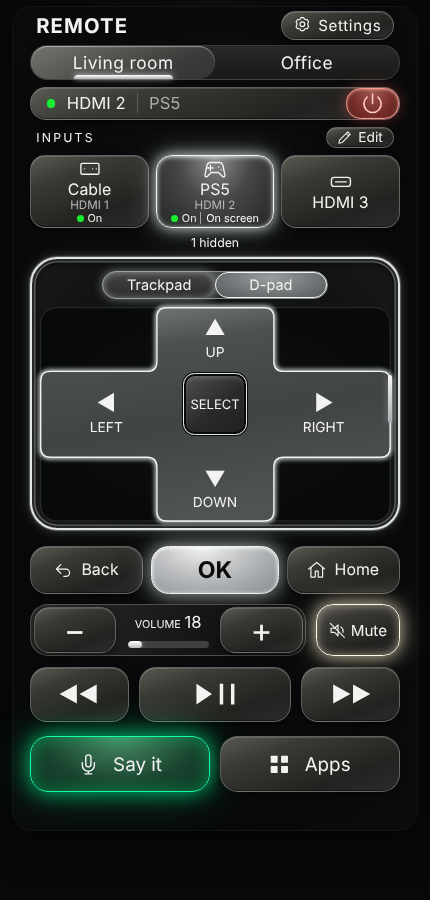
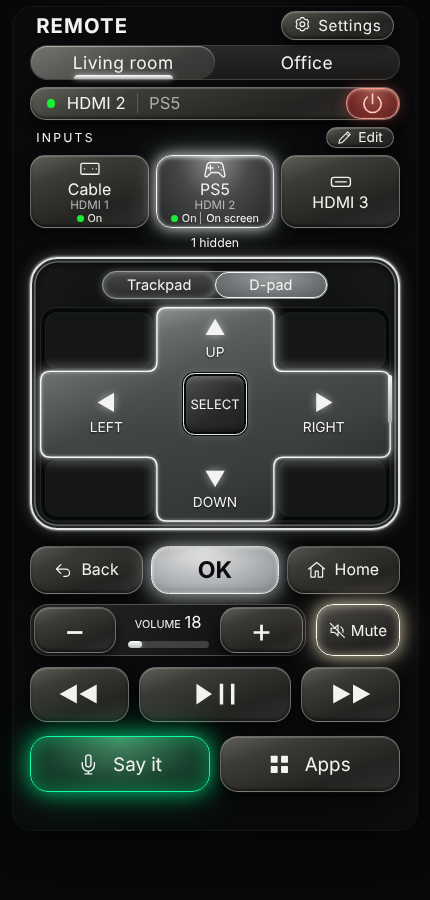
NEXUS mock: D-pad bloom, bevel and corner panels; lifted chrome keys
Claude-Session: https://claude.ai/code/session_01MP8wXPz7fte7HKZgZuAaXG

Changed region(s): [[0.0907, 0.3422, 0.907, 0.6222], [0.6047, 0.3422, 0.8767, 0.4667]]

diff --git a/grigson-tv/nexus-remote/NEXUS-Remote.html b/grigson-tv/nexus-remote/NEXUS-Remote.html
@@ -35,7 +35,7 @@ button:active, button.is-pressed { filter: brightness(1.2); transform: scale(.98
 .comparison .remote { width: 100%; }
 .remote-inner { --u: calc(100cqw / 558); padding: calc(6 * var(--u)) calc(24 * var(--u)) calc(52 * var(--u)); font-size: calc(24 * var(--u)); }
 .icon { width: 1.1em; height: 1.1em; vertical-align: middle; flex-shrink: 0; stroke: currentColor; stroke-width: 1.65; fill: none; stroke-linecap: round; stroke-linejoin: round; }
-.chrome { background: linear-gradient(160deg,#5a5953 0%,#3a3935 28%,#232220 72%,#2d2c2a); border: 1px solid #8e8e8a8c; box-shadow: inset 0 1px 0 #ffffff26,inset 0 -1px 0 #0006,0 3px 7px #0006; }
+.chrome { background: linear-gradient(160deg,#5f5e58 0%,#3c3b37 26%,#242321 70%,#2f2e2c); border: 1px solid #94948f99; box-shadow: inset 0 1px 1px #ffffff38,inset 0 -2px 3px #0007,0 5px 12px #000a,0 1px 0 #ffffff10; }
 .header { height: calc(39 * var(--u)); display: flex; align-items: flex-start; justify-content: space-between; padding: 0 calc(8 * var(--u)); }
 .brand { font-size: calc(28 * var(--u)); letter-spacing: .055em; font-weight: 700; margin: calc(2 * var(--u)) 0 0; }
 .settings { display: flex; align-items: center; gap: .5em; padding: 0 calc(16 * var(--u)); height: calc(39 * var(--u)); border-radius: calc(22 * var(--u)); font-size: calc(21 * var(--u)); letter-spacing: .04em; }
@@ -62,7 +62,7 @@ button:active, button.is-pressed { filter: brightness(1.2); transform: scale(.98
 .on-screen { border-left:1px solid #a4a4a4; padding-left:calc(7 * var(--u)); color:#fff; }
 .input-card[aria-pressed=true] { background:radial-gradient(ellipse at 50% 0%,#8d8f90,#464848 45%,#2c2e2f 85%); border-color:#f1f4f5; box-shadow: inset 0 1px 4px #fffc,inset 0 0 10px #ffffff22,0 0 14px #f1f7f7cc,0 0 32px #d6dada55; }
 .hidden-count { text-align:center; height:calc(40 * var(--u)); display:grid; place-items:center; font-size:calc(17 * var(--u)); margin:0; }
-.navigation { position:relative; height:calc(378 * var(--u)); border-radius:calc(38 * var(--u)); border:calc(3 * var(--u)) solid #e3e6e6; padding:calc(17 * var(--u)) calc(9 * var(--u)) calc(8 * var(--u)); background:radial-gradient(ellipse at 50% 45%,#1a1b1b,#111212 60%,#1c1e1e); box-shadow:inset 0 0 0 calc(3 * var(--u)) #262828,inset 0 0 0 calc(5 * var(--u)) #a6a9a880,inset 0 2px 6px calc(5 * var(--u)) #0008,0 0 12px #ffffff38,0 0 2px #fff; overflow:hidden; }
+.navigation { position:relative; height:calc(378 * var(--u)); border-radius:calc(38 * var(--u)); border:calc(3 * var(--u)) solid #e3e6e6; padding:calc(17 * var(--u)) calc(9 * var(--u)) calc(8 * var(--u)); background:radial-gradient(ellipse at 50% 45%,#1a1b1b,#111212 60%,#1c1e1e); box-shadow:inset 0 0 0 calc(3 * var(--u)) #262828,inset 0 0 0 calc(5 * var(--u)) #b4b7b690,inset 0 2px 8px calc(5 * var(--u)) #000a,0 0 16px #ffffff45,0 0 3px #fff,0 8px 22px #000a; overflow:hidden; }
 .mode-selector { position:relative; z-index:3; display:flex; width:64%; height:calc(38 * var(--u)); margin:auto; border:1px solid #898b8b; background:linear-gradient(#454646,#292b2b); border-radius:calc(22 * var(--u)); }
 .mode { width:50%; border:0; background:transparent; border-radius:inherit; font-size:calc(20 * var(--u)); }
 .mode[aria-selected=true] { background:radial-gradient(ellipse at 50% 20%,#9a9d9f,#555859); border:1px solid #f4f7f8; box-shadow:inset 0 0 8px #fff7,0 0 12px #e4ecec99; }
@@ -78,17 +78,18 @@ button:active, button.is-pressed { filter: brightness(1.2); transform: scale(.98
 .dpad { position:absolute; inset:calc(66 * var(--u)) calc(10 * var(--u)) calc(10 * var(--u)); }
 .dpad-art { width:100%; height:100%; position:absolute; overflow:visible; pointer-events:none; }
 .direction { position:absolute; border:0; background:transparent; padding:0; display:flex; flex-direction:column; justify-content:center; align-items:center; gap:calc(8 * var(--u)); border-radius:calc(12 * var(--u)); font-size:calc(19 * var(--u)); touch-action:none; }
-.direction .triangle { font-size:calc(29 * var(--u)); line-height:1; }
+.direction .triangle { font-size:calc(29 * var(--u)); line-height:1; text-shadow:0 0 8px #ffffff80; }
+.direction { text-shadow:0 1px 2px #000c; }
 .direction.up { top:0; left:33.333%; width:33.334%; height:30%; }
 .direction.down { bottom:0; left:33.333%; width:33.334%; height:30%; }
 .direction.left { top:30%; left:0; width:38%; height:40%; }
 .direction.right { top:30%; right:0; width:38%; height:40%; }
 .direction:active,.direction.is-pressed { background:#ffffff17; transform:none; box-shadow:inset 0 0 24px #ffffff1a; }
-.center-select { position:absolute; left:41%; top:31%; width:18%; height:29%; border-radius:calc(16 * var(--u)); font-size:calc(18 * var(--u)); border:calc(2 * var(--u)) solid #e8e9e6; background:linear-gradient(140deg,#505252,#292b2b 55%,#1d1f20); box-shadow:inset 0 0 0 2px #090a0b,inset 0 4px 5px #ffffff30,0 0 0 1px #090a0b; touch-action:none; }
+.center-select { position:absolute; left:41%; top:31%; width:18%; height:29%; border-radius:calc(16 * var(--u)); font-size:calc(18 * var(--u)); border:calc(2 * var(--u)) solid #e8e9e6; background:linear-gradient(140deg,#505252,#292b2b 55%,#1d1f20); box-shadow:inset 0 0 0 2px #090a0b,inset 0 4px 6px #ffffff40,inset 0 -3px 6px #0008,0 0 0 1px #090a0b,0 0 10px #ffffff30; touch-action:none; }
 [hidden] { display:none !important; }
 .primary { display:grid; grid-template-columns:1fr 1.13fr 1fr; gap:calc(12 * var(--u)); margin-top:calc(21 * var(--u)); height:calc(67 * var(--u)); }
 .primary button { border-radius:calc(24 * var(--u)); display:flex; align-items:center; justify-content:center; gap:calc(13 * var(--u)); font-size:calc(22 * var(--u)); }
-.primary .okay { font-size:calc(32 * var(--u)); font-weight:700; color:#090b0d; border:1px solid #eef0f0; background:radial-gradient(ellipse at 40% 0%,#f1f2f2,#bfc1c3 42%,#909497 90%); box-shadow:inset 0 1px 4px #fff,0 0 18px #e6ecec99,0 0 34px #c8d0d040; }
+.primary .okay { font-size:calc(32 * var(--u)); font-weight:700; color:#090b0d; border:1px solid #eef0f0; background:radial-gradient(ellipse at 40% 0%,#f1f2f2,#bfc1c3 42%,#909497 90%); box-shadow:inset 0 1px 4px #fff,inset 0 -3px 6px #00000030,0 0 20px #eef3f3b3,0 0 40px #c8d0d055,0 5px 12px #0008; }
 .volume-row { margin-top:calc(14 * var(--u)); display:grid; grid-template-columns:3.3fr 1fr; gap:calc(14 * var(--u)); height:calc(72 * var(--u)); }
 .volume-strip { display:grid; grid-template-columns:1fr 1.2fr 1fr; padding:calc(3 * var(--u)); border-radius:calc(25 * var(--u)); border:1px solid #79797591; background:linear-gradient(120deg,#292a28,#121414 70%); gap:calc(4 * var(--u)); }
 .volume-key { border-radius:calc(22 * var(--u)); font-size:calc(46 * var(--u)); line-height:1; touch-action:none; }
@@ -227,13 +228,20 @@ dialog button.save { padding:10px 18px; border:1px solid #bec2c5; border-radius:
     }).join('');
   }
   function dpadArt(id) {
+    const cross='M184 1H326Q340 1 340 15V76Q340 90 354 90H495Q509 90 509 104V196Q509 210 495 210H354Q340 210 340 224V285Q340 299 326 299H184Q170 299 170 285V224Q170 210 156 210H15Q1 210 1 196V104Q1 90 15 90H156Q170 90 170 76V15Q170 1 184 1Z';
     return `<svg class="dpad-art" viewBox="0 0 510 300" preserveAspectRatio="none" aria-hidden="true">
-      <defs><linearGradient id="plate-${id}" x1="0" y1="0" x2=".25" y2="1"><stop stop-color="#808384"/><stop offset=".25" stop-color="#4d5051"/><stop offset=".6" stop-color="#414445"/><stop offset="1" stop-color="#505354"/></linearGradient>
-      <radialGradient id="void-${id}"><stop stop-color="#111314"/><stop offset="1" stop-color="#080a0a"/></radialGradient>
-      <filter id="glow-${id}" x="-10%" y="-10%" width="120%" height="120%"><feGaussianBlur stdDeviation="3"/></filter></defs>
-      <rect x="1" y="1" width="508" height="298" rx="22" fill="url(#void-${id})" stroke="#393c3d"/>
-      <path d="M184 1H326Q340 1 340 15V76Q340 90 354 90H495Q509 90 509 104V196Q509 210 495 210H354Q340 210 340 224V285Q340 299 326 299H184Q170 299 170 285V224Q170 210 156 210H15Q1 210 1 196V104Q1 90 15 90H156Q170 90 170 76V15Q170 1 184 1Z" fill="none" stroke="#eef2f2" stroke-width="6" filter="url(#glow-${id})" opacity=".85"/>
-      <path d="M184 1H326Q340 1 340 15V76Q340 90 354 90H495Q509 90 509 104V196Q509 210 495 210H354Q340 210 340 224V285Q340 299 326 299H184Q170 299 170 285V224Q170 210 156 210H15Q1 210 1 196V104Q1 90 15 90H156Q170 90 170 76V15Q170 1 184 1Z" fill="url(#plate-${id})" stroke="#f0f3f3" stroke-width="2"/>
+      <defs><linearGradient id="plate-${id}" x1="0" y1="0" x2=".3" y2="1"><stop stop-color="#9a9d9e"/><stop offset=".2" stop-color="#5e6263"/><stop offset=".6" stop-color="#424546"/><stop offset="1" stop-color="#353839"/></linearGradient>
+      <linearGradient id="bevel-${id}" x1="0" y1="0" x2="1" y2="1"><stop stop-color="#fff" stop-opacity=".22"/><stop offset=".35" stop-color="#fff" stop-opacity="0"/><stop offset=".7" stop-color="#000" stop-opacity="0"/><stop offset="1" stop-color="#000" stop-opacity=".35"/></linearGradient>
+      <radialGradient id="void-${id}"><stop stop-color="#121415"/><stop offset="1" stop-color="#070909"/></radialGradient>
+      <filter id="bloom-${id}" x="-15%" y="-15%" width="130%" height="130%"><feGaussianBlur stdDeviation="8"/></filter>
+      <filter id="glow-${id}" x="-10%" y="-10%" width="120%" height="120%"><feGaussianBlur stdDeviation="2.5"/></filter>
+      <clipPath id="clip-${id}"><path d="${cross}"/></clipPath></defs>
+      <rect x="1" y="1" width="508" height="298" rx="22" fill="url(#void-${id})" stroke="#2c2f30"/><g fill="#151717" stroke="#242727"><rect x="8" y="8" width="156" height="78" rx="16"/><rect x="346" y="8" width="156" height="78" rx="16"/><rect x="8" y="214" width="156" height="78" rx="16"/><rect x="346" y="214" width="156" height="78" rx="16"/></g>
+      <path d="${cross}" fill="none" stroke="#ffffff" stroke-width="13" filter="url(#bloom-${id})" opacity=".32"/>
+      <path d="${cross}" fill="none" stroke="#f4f7f7" stroke-width="3" filter="url(#glow-${id})" opacity=".7"/>
+      <path d="${cross}" fill="url(#plate-${id})" stroke="#f3f6f6" stroke-width="2"/>
+      <path d="${cross}" fill="url(#bevel-${id})"/>
+      <path d="${cross}" fill="none" stroke="#ffffff" stroke-width="5" opacity=".28" clip-path="url(#clip-${id})" filter="url(#glow-${id})"/>
     </svg>`;
   }
   function markup(id) {

diff --git a/grigson-tv/nexus-remote/styles.css b/grigson-tv/nexus-remote/styles.css
@@ -27,7 +27,7 @@ button:active, button.is-pressed { filter: brightness(1.2); transform: scale(.98
 .comparison .remote { width: 100%; }
 .remote-inner { --u: calc(100cqw / 558); padding: calc(6 * var(--u)) calc(24 * var(--u)) calc(52 * var(--u)); font-size: calc(24 * var(--u)); }
 .icon { width: 1.1em; height: 1.1em; vertical-align: middle; flex-shrink: 0; stroke: currentColor; stroke-width: 1.65; fill: none; stroke-linecap: round; stroke-linejoin: round; }
-.chrome { background: linear-gradient(160deg,#5a5953 0%,#3a3935 28%,#232220 72%,#2d2c2a); border: 1px solid #8e8e8a8c; box-shadow: inset 0 1px 0 #ffffff26,inset 0 -1px 0 #0006,0 3px 7px #0006; }
+.chrome { background: linear-gradient(160deg,#5f5e58 0%,#3c3b37 26%,#242321 70%,#2f2e2c); border: 1px solid #94948f99; box-shadow: inset 0 1px 1px #ffffff38,inset 0 -2px 3px #0007,0 5px 12px #000a,0 1px 0 #ffffff10; }
 .header { height: calc(39 * var(--u)); display: flex; align-items: flex-start; justify-content: space-between; padding: 0 calc(8 * var(--u)); }
 .brand { font-size: calc(28 * var(--u)); letter-spacing: .055em; font-weight: 700; margin: calc(2 * var(--u)) 0 0; }
 .settings { display: flex; align-items: center; gap: .5em; padding: 0 calc(16 * var(--u)); height: calc(39 * var(--u)); border-radius: calc(22 * var(--u)); font-size: calc(21 * var(--u)); letter-spacing: .04em; }
@@ -54,7 +54,7 @@ button:active, button.is-pressed { filter: brightness(1.2); transform: scale(.98
 .on-screen { border-left:1px solid #a4a4a4; padding-left:calc(7 * var(--u)); color:#fff; }
 .input-card[aria-pressed=true] { background:radial-gradient(ellipse at 50% 0%,#8d8f90,#464848 45%,#2c2e2f 85%); border-color:#f1f4f5; box-shadow: inset 0 1px 4px #fffc,inset 0 0 10px #ffffff22,0 0 14px #f1f7f7cc,0 0 32px #d6dada55; }
 .hidden-count { text-align:center; height:calc(40 * var(--u)); display:grid; place-items:center; font-size:calc(17 * var(--u)); margin:0; }
-.navigation { position:relative; height:calc(378 * var(--u)); border-radius:calc(38 * var(--u)); border:calc(3 * var(--u)) solid #e3e6e6; padding:calc(17 * var(--u)) calc(9 * var(--u)) calc(8 * var(--u)); background:radial-gradient(ellipse at 50% 45%,#1a1b1b,#111212 60%,#1c1e1e); box-shadow:inset 0 0 0 calc(3 * var(--u)) #262828,inset 0 0 0 calc(5 * var(--u)) #a6a9a880,inset 0 2px 6px calc(5 * var(--u)) #0008,0 0 12px #ffffff38,0 0 2px #fff; overflow:hidden; }
+.navigation { position:relative; height:calc(378 * var(--u)); border-radius:calc(38 * var(--u)); border:calc(3 * var(--u)) solid #e3e6e6; padding:calc(17 * var(--u)) calc(9 * var(--u)) calc(8 * var(--u)); background:radial-gradient(ellipse at 50% 45%,#1a1b1b,#111212 60%,#1c1e1e); box-shadow:inset 0 0 0 calc(3 * var(--u)) #262828,inset 0 0 0 calc(5 * var(--u)) #b4b7b690,inset 0 2px 8px calc(5 * var(--u)) #000a,0 0 16px #ffffff45,0 0 3px #fff,0 8px 22px #000a; overflow:hidden; }
 .mode-selector { position:relative; z-index:3; display:flex; width:64%; height:calc(38 * var(--u)); margin:auto; border:1px solid #898b8b; background:linear-gradient(#454646,#292b2b); border-radius:calc(22 * var(--u)); }
 .mode { width:50%; border:0; background:transparent; border-radius:inherit; font-size:calc(20 * var(--u)); }
 .mode[aria-selected=true] { background:radial-gradient(ellipse at 50% 20%,#9a9d9f,#555859); border:1px solid #f4f7f8; box-shadow:inset 0 0 8px #fff7,0 0 12px #e4ecec99; }
@@ -70,17 +70,18 @@ button:active, button.is-pressed { filter: brightness(1.2); transform: scale(.98
 .dpad { position:absolute; inset:calc(66 * var(--u)) calc(10 * var(--u)) calc(10 * var(--u)); }
 .dpad-art { width:100%; height:100%; position:absolute; overflow:visible; pointer-events:none; }
 .direction { position:absolute; border:0; background:transparent; padding:0; display:flex; flex-direction:column; justify-content:center; align-items:center; gap:calc(8 * var(--u)); border-radius:calc(12 * var(--u)); font-size:calc(19 * var(--u)); touch-action:none; }
-.direction .triangle { font-size:calc(29 * var(--u)); line-height:1; }
+.direction .triangle { font-size:calc(29 * var(--u)); line-height:1; text-shadow:0 0 8px #ffffff80; }
+.direction { text-shadow:0 1px 2px #000c; }
 .direction.up { top:0; left:33.333%; width:33.334%; height:30%; }
 .direction.down { bottom:0; left:33.333%; width:33.334%; height:30%; }
 .direction.left { top:30%; left:0; width:38%; height:40%; }
 .direction.right { top:30%; right:0; width:38%; height:40%; }
 .direction:active,.direction.is-pressed { background:#ffffff17; transform:none; box-shadow:inset 0 0 24px #ffffff1a; }
-.center-select { position:absolute; left:41%; top:31%; width:18%; height:29%; border-radius:calc(16 * var(--u)); font-size:calc(18 * var(--u)); border:calc(2 * var(--u)) solid #e8e9e6; background:linear-gradient(140deg,#505252,#292b2b 55%,#1d1f20); box-shadow:inset 0 0 0 2px #090a0b,inset 0 4px 5px #ffffff30,0 0 0 1px #090a0b; touch-action:none; }
+.center-select { position:absolute; left:41%; top:31%; width:18%; height:29%; border-radius:calc(16 * var(--u)); font-size:calc(18 * var(--u)); border:calc(2 * var(--u)) solid #e8e9e6; background:linear-gradient(140deg,#505252,#292b2b 55%,#1d1f20); box-shadow:inset 0 0 0 2px #090a0b,inset 0 4px 6px #ffffff40,inset 0 -3px 6px #0008,0 0 0 1px #090a0b,0 0 10px #ffffff30; touch-action:none; }
 [hidden] { display:none !important; }
 .primary { display:grid; grid-template-columns:1fr 1.13fr 1fr; gap:calc(12 * var(--u)); margin-top:calc(21 * var(--u)); height:calc(67 * var(--u)); }
 .primary button { border-radius:calc(24 * var(--u)); display:flex; align-items:center; justify-content:center; gap:calc(13 * var(--u)); font-size:calc(22 * var(--u)); }
-.primary .okay { font-size:calc(32 * var(--u)); font-weight:700; color:#090b0d; border:1px solid #eef0f0; background:radial-gradient(ellipse at 40% 0%,#f1f2f2,#bfc1c3 42%,#909497 90%); box-shadow:inset 0 1px 4px #fff,0 0 18px #e6ecec99,0 0 34px #c8d0d040; }
+.primary .okay { font-size:calc(32 * var(--u)); font-weight:700; color:#090b0d; border:1px solid #eef0f0; background:radial-gradient(ellipse at 40% 0%,#f1f2f2,#bfc1c3 42%,#909497 90%); box-shadow:inset 0 1px 4px #fff,inset 0 -3px 6px #00000030,0 0 20px #eef3f3b3,0 0 40px #c8d0d055,0 5px 12px #0008; }
 .volume-row { margin-top:calc(14 * var(--u)); display:grid; grid-template-columns:3.3fr 1fr; gap:calc(14 * var(--u)); height:calc(72 * var(--u)); }
 .volume-strip { display:grid; grid-template-columns:1fr 1.2fr 1fr; padding:calc(3 * var(--u)); border-radius:calc(25 * var(--u)); border:1px solid #79797591; background:linear-gradient(120deg,#292a28,#121414 70%); gap:calc(4 * var(--u)); }
 .volume-key { border-radius:calc(22 * var(--u)); font-size:calc(46 * var(--u)); line-height:1; touch-action:none; }

diff --git a/grigson-tv/nexus-remote/app.js b/grigson-tv/nexus-remote/app.js
@@ -69,13 +69,20 @@
     }).join('');
   }
   function dpadArt(id) {
+    const cross='M184 1H326Q340 1 340 15V76Q340 90 354 90H495Q509 90 509 104V196Q509 210 495 210H354Q340 210 340 224V285Q340 299 326 299H184Q170 299 170 285V224Q170 210 156 210H15Q1 210 1 196V104Q1 90 15 90H156Q170 90 170 76V15Q170 1 184 1Z';
     return `<svg class="dpad-art" viewBox="0 0 510 300" preserveAspectRatio="none" aria-hidden="true">
-      <defs><linearGradient id="plate-${id}" x1="0" y1="0" x2=".25" y2="1"><stop stop-color="#808384"/><stop offset=".25" stop-color="#4d5051"/><stop offset=".6" stop-color="#414445"/><stop offset="1" stop-color="#505354"/></linearGradient>
-      <radialGradient id="void-${id}"><stop stop-color="#111314"/><stop offset="1" stop-color="#080a0a"/></radialGradient>
-      <filter id="glow-${id}" x="-10%" y="-10%" width="120%" height="120%"><feGaussianBlur stdDeviation="3"/></filter></defs>
-      <rect x="1" y="1" width="508" height="298" rx="22" fill="url(#void-${id})" stroke="#393c3d"/>
-      <path d="M184 1H326Q340 1 340 15V76Q340 90 354 90H495Q509 90 509 104V196Q509 210 495 210H354Q340 210 340 224V285Q340 299 326 299H184Q170 299 170 285V224Q170 210 156 210H15Q1 210 1 196V104Q1 90 15 90H156Q170 90 170 76V15Q170 1 184 1Z" fill="none" stroke="#eef2f2" stroke-width="6" filter="url(#glow-${id})" opacity=".85"/>
-      <path d="M184 1H326Q340 1 340 15V76Q340 90 354 90H495Q509 90 509 104V196Q509 210 495 210H354Q340 210 340 224V285Q340 299 326 299H184Q170 299 170 285V224Q170 210 156 210H15Q1 210 1 196V104Q1 90 15 90H156Q170 90 170 76V15Q170 1 184 1Z" fill="url(#plate-${id})" stroke="#f0f3f3" stroke-width="2"/>
+      <defs><linearGradient id="plate-${id}" x1="0" y1="0" x2=".3" y2="1"><stop stop-color="#9a9d9e"/><stop offset=".2" stop-color="#5e6263"/><stop offset=".6" stop-color="#424546"/><stop offset="1" stop-color="#353839"/></linearGradient>
+      <linearGradient id="bevel-${id}" x1="0" y1="0" x2="1" y2="1"><stop stop-color="#fff" stop-opacity=".22"/><stop offset=".35" stop-color="#fff" stop-opacity="0"/><stop offset=".7" stop-color="#000" stop-opacity="0"/><stop offset="1" stop-color="#000" stop-opacity=".35"/></linearGradient>
+      <radialGradient id="void-${id}"><stop stop-color="#121415"/><stop offset="1" stop-color="#070909"/></radialGradient>
+      <filter id="bloom-${id}" x="-15%" y="-15%" width="130%" height="130%"><feGaussianBlur stdDeviation="8"/></filter>
+      <filter id="glow-${id}" x="-10%" y="-10%" width="120%" height="120%"><feGaussianBlur stdDeviation="2.5"/></filter>
+      <clipPath id="clip-${id}"><path d="${cross}"/></clipPath></defs>
+      <rect x="1" y="1" width="508" height="298" rx="22" fill="url(#void-${id})" stroke="#2c2f30"/><g fill="#151717" stroke="#242727"><rect x="8" y="8" width="156" height="78" rx="16"/><rect x="346" y="8" width="156" height="78" rx="16"/><rect x="8" y="214" width="156" height="78" rx="16"/><rect x="346" y="214" width="156" height="78" rx="16"/></g>
+      <path d="${cross}" fill="none" stroke="#ffffff" stroke-width="13" filter="url(#bloom-${id})" opacity=".32"/>
+      <path d="${cross}" fill="none" stroke="#f4f7f7" stroke-width="3" filter="url(#glow-${id})" opacity=".7"/>
+      <path d="${cross}" fill="url(#plate-${id})" stroke="#f3f6f6" stroke-width="2"/>
+      <path d="${cross}" fill="url(#bevel-${id})"/>
+      <path d="${cross}" fill="none" stroke="#ffffff" stroke-width="5" opacity=".28" clip-path="url(#clip-${id})" filter="url(#glow-${id})"/>
     </svg>`;
   }
   function markup(id) {
